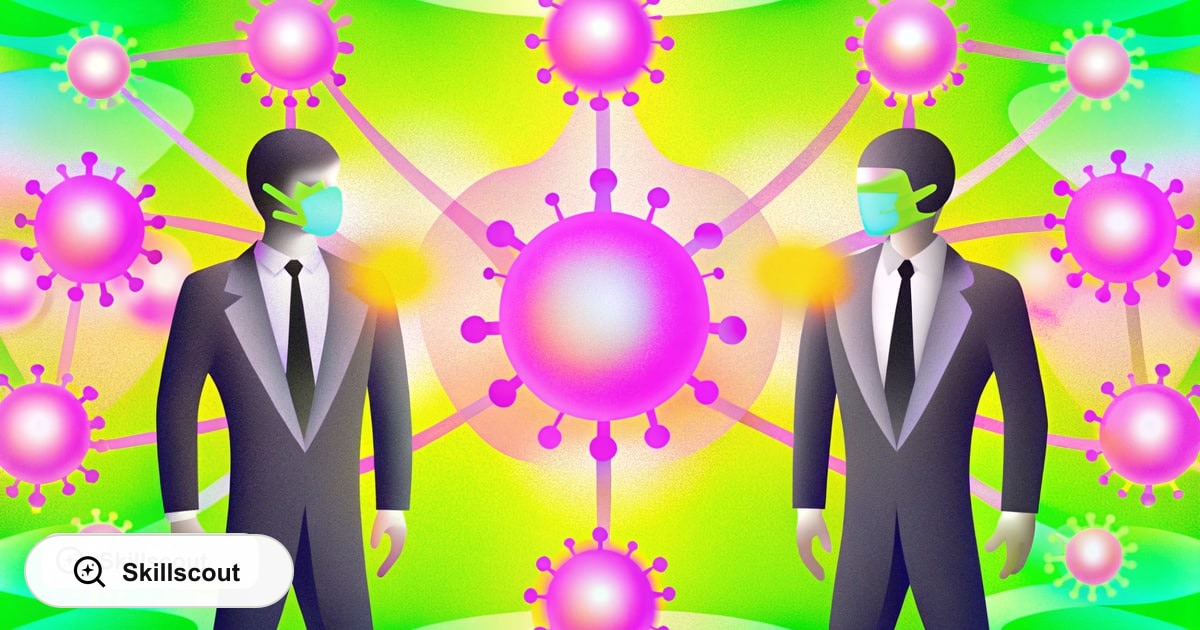
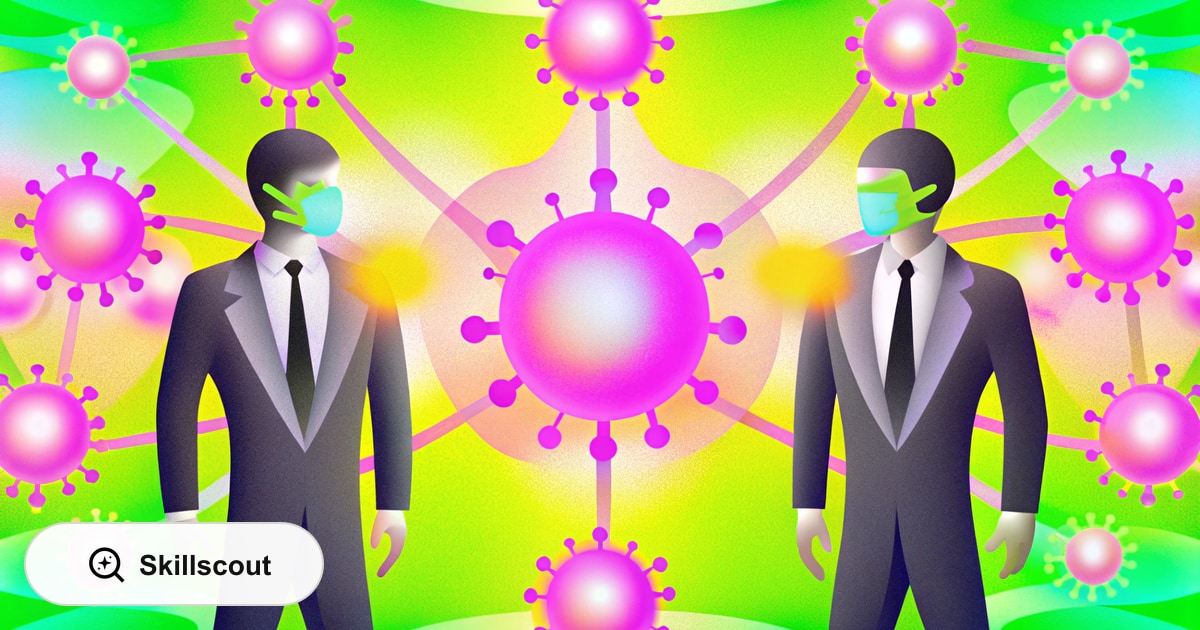
Separate clean guide thumbnails from hero art

Changed region(s): [[0.0, 0.8143, 0.2775, 0.9651], [0.0, 0.9048, 0.0308, 0.9349]]

diff --git a/docs/guides/index.html b/docs/guides/index.html
@@ -500,7 +500,7 @@
         display: block;
         width: 100%;
         height: 100%;
-        object-fit: contain;
+        object-fit: cover;
         object-position: center;
       }
       .article-card-copy {
@@ -587,7 +587,7 @@
         <a class="article-card" href="/guides/ai-agent-skill-product-marketing/">
           <div class="article-card-image">
             <img
-              src="../assets/guides/skills-marketing.png"
+              src="../assets/guides/skills-marketing-preview.jpg"
               alt="AI agent presenting a rising product marketing growth chart."
             />
           </div>
@@ -603,7 +603,7 @@
         <a class="article-card" href="/guides/viral-ai-agent-skills/">
           <div class="article-card-image">
             <img
-              src="../assets/guides/viral-agent-skills-hero.jpg"
+              src="../assets/guides/viral-agent-skills-preview.jpg"
               alt="Two AI agents connected through a bright network of reusable skills."
             />
           </div>
@@ -619,7 +619,7 @@
         <a class="article-card" href="/guides/official-ai-agent-skills-statistics/">
           <div class="article-card-image">
             <img
-              src="../assets/guides/official-skills-word-cloud.png"
+              src="../assets/guides/official-skills-word-cloud-preview.jpg"
               alt="Word cloud showing the most common words in Skillscout official AI agent skill names."
             />
           </div>
@@ -651,7 +651,7 @@
         <a class="article-card" href="/guides/lovable-skills-for-ai-builders/">
           <div class="article-card-image">
             <img
-              src="../assets/guides/lovable-skills-hero.png"
+              src="../assets/guides/lovable-skills-preview.jpg"
               alt="Illustration of a robot with a colorful heart on its chest."
             />
           </div>
@@ -667,7 +667,7 @@
         <a class="article-card" href="/guides/what-is-hermes-agent/">
           <div class="article-card-image">
             <img
-              src="../assets/guides/hermes-agent-hero.jpg"
+              src="../assets/guides/hermes-agent-preview.jpg"
               alt="Illustration of a winged AI agent standing in front of a bright blue and pink background."
             />
           </div>
@@ -683,7 +683,7 @@
         <a class="article-card" href="/guides/ai-agent-skills-security/">
           <div class="article-card-image">
             <img
-              src="../assets/guides/skills-security-hero.jpg"
+              src="../assets/guides/skills-security-preview.jpg"
               alt="Illustration of a hooded AI agent holding a money bag, representing agent skills security risks."
             />
           </div>
@@ -699,7 +699,7 @@
         <a class="article-card" href="/guides/how-to-organize-agent-skills/">
           <div class="article-card-image">
             <img
-              src="../assets/guides/organize-agent-skills-hero.jpg"
+              src="../assets/guides/organize-agent-skills-preview.jpg"
               alt="Illustration of a multitasking AI agent managing several reusable skill workflows."
             />
           </div>
@@ -715,7 +715,7 @@
         <a class="article-card" href="/guides/what-are-ai-agent-skills/">
           <div class="article-card-image">
             <img
-              src="../assets/guides/agent-skills-hero.jpg"
+              src="../assets/guides/agent-skills-preview.jpg"
               alt="Black-and-white illustration of AI agents in suits with radiating light beams."
             />
           </div>
